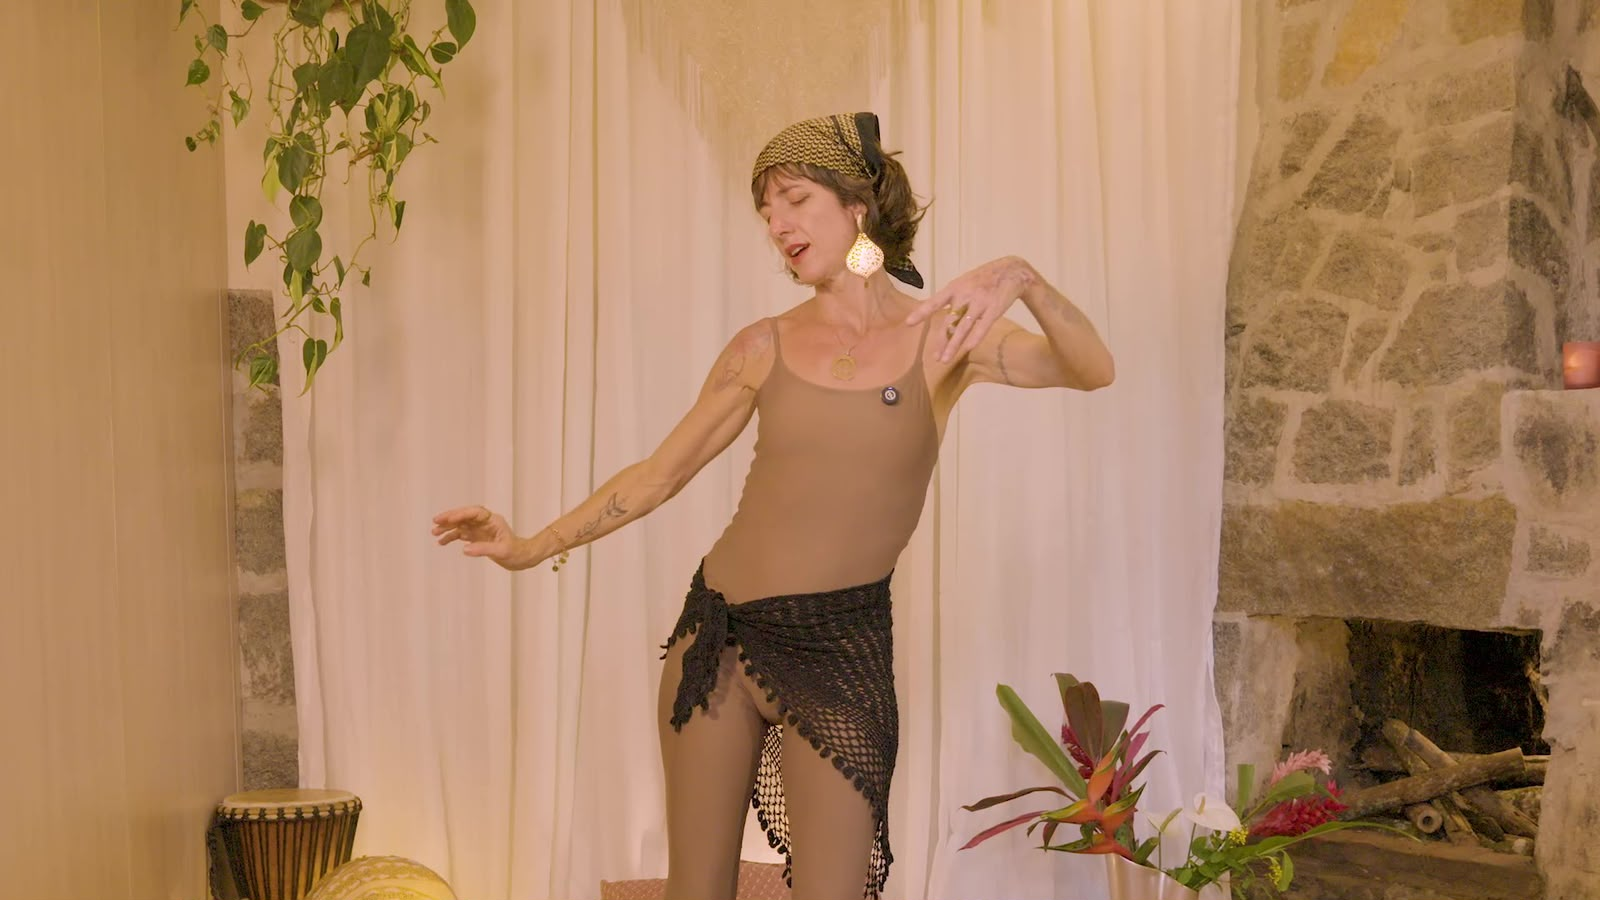
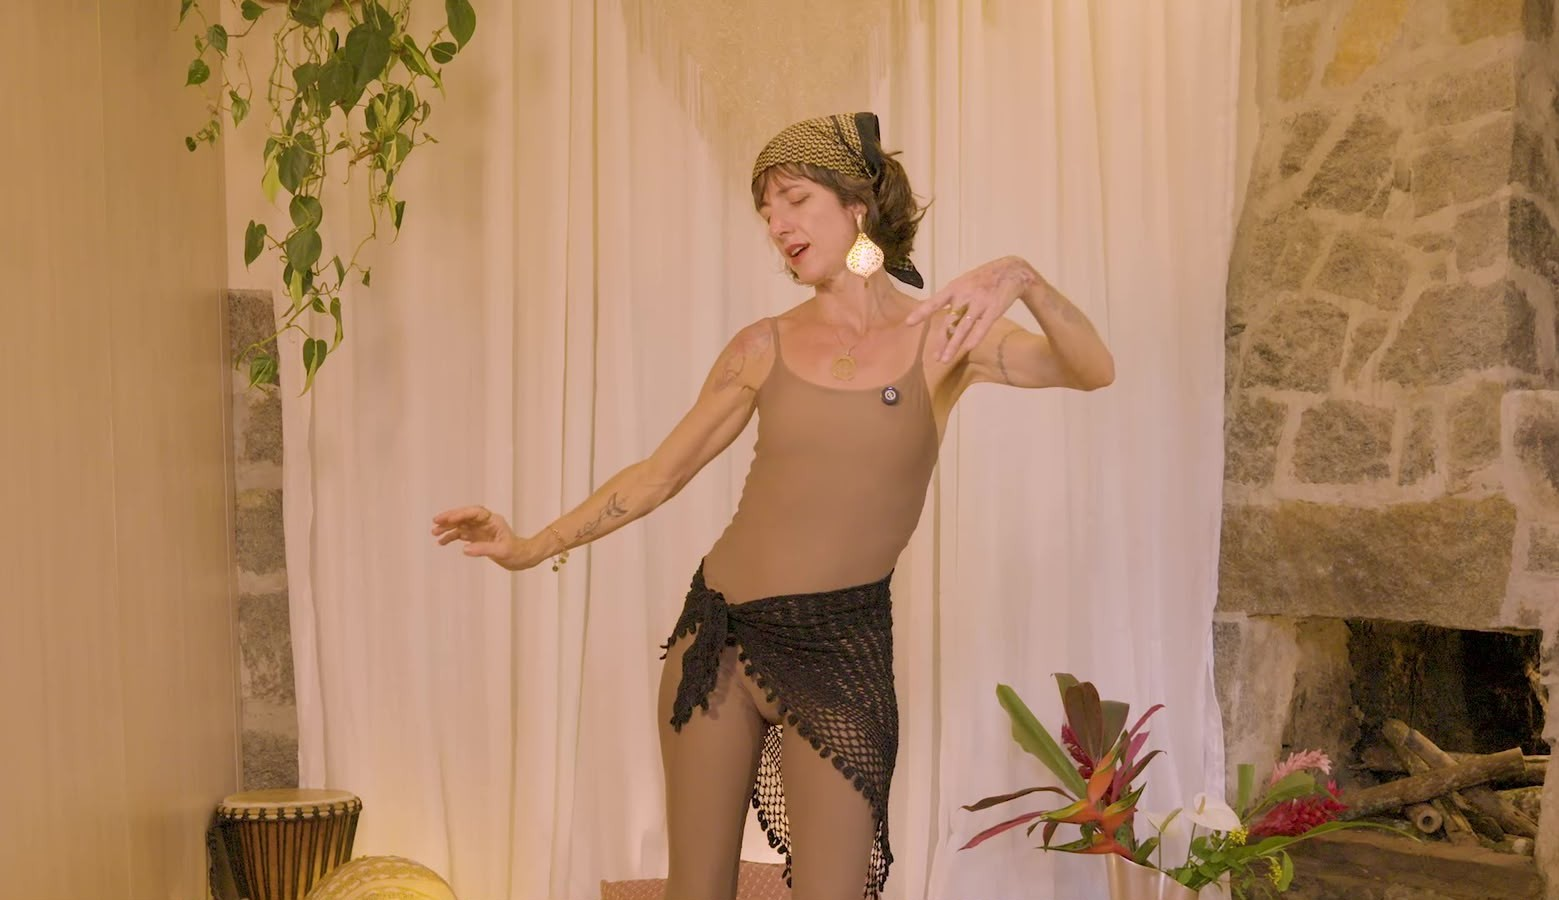
Add files via upload

diff --git a/index.html b/index.html
@@ -133,7 +133,7 @@
           Formei-me em Dança pela Universidade Federal da Bahia e estudei balé
           e dança moderna em Nova York. Mas foi fora da universidade que minha
           pesquisa mais profunda começou: na meditação, na Sagrada Medicina
-          Ayahuasca e no Contato Improvisação — e, mais tarde, na Índia, onde
+          Ayahuasca, no Contato Improvisação e, mais tarde, na Índia, onde
           conheci o Ayurveda e a Dança Oriental.
         </p>
         <p class="reveal">
@@ -184,7 +184,7 @@
           <div class="timeline__dot" aria-hidden="true"></div>
           <div class="timeline__body">
             <h3>Os primeiros passos</h3>
-            <p>A expressão corporal a apresenta à dança. Vieram o balé clássico, a dança moderna e contemporânea, as danças brasileiras e africanas.</p>
+            <p>A expressão corporal me apresenta à dança. Vieram o balé clássico, a dança moderna e contemporânea, as danças brasileiras e africanas.</p>
           </div>
         </li>
         <li class="timeline__item reveal">
@@ -208,7 +208,7 @@
           <div class="timeline__dot" aria-hidden="true"></div>
           <div class="timeline__body">
             <h3>Ayurveda e Dança Oriental</h3>
-            <p>Estudos aprofundados em meditação, massagem e Ayurveda. O encontro com a Dança do Ventre, o Tribal Fusion e o ATS revela uma sabedoria: o movimento nasce do ventre, origem da vida.</p>
+            <p>Estudos aprofundados em meditação, massagem e Ayurveda. Posteriormente, vem o encontro com a Dança do Ventre, o Tribal Fusion e o ATS, que revela uma sabedoria: o movimento nasce do ventre, origem da vida.</p>
           </div>
         </li>
         <li class="timeline__item reveal">
@@ -312,7 +312,7 @@
           <span class="steps__num">II</span>
           <div class="steps__body">
             <h3>Respiração</h3>
-            <p>A respiração se amplia, e o corpo volta a sentir espaço para existir.</p>
+            <p>A respiração se amplia e o corpo volta a sentir espaço para existir.</p>
           </div>
         </li>
         <li class="steps__item reveal">
